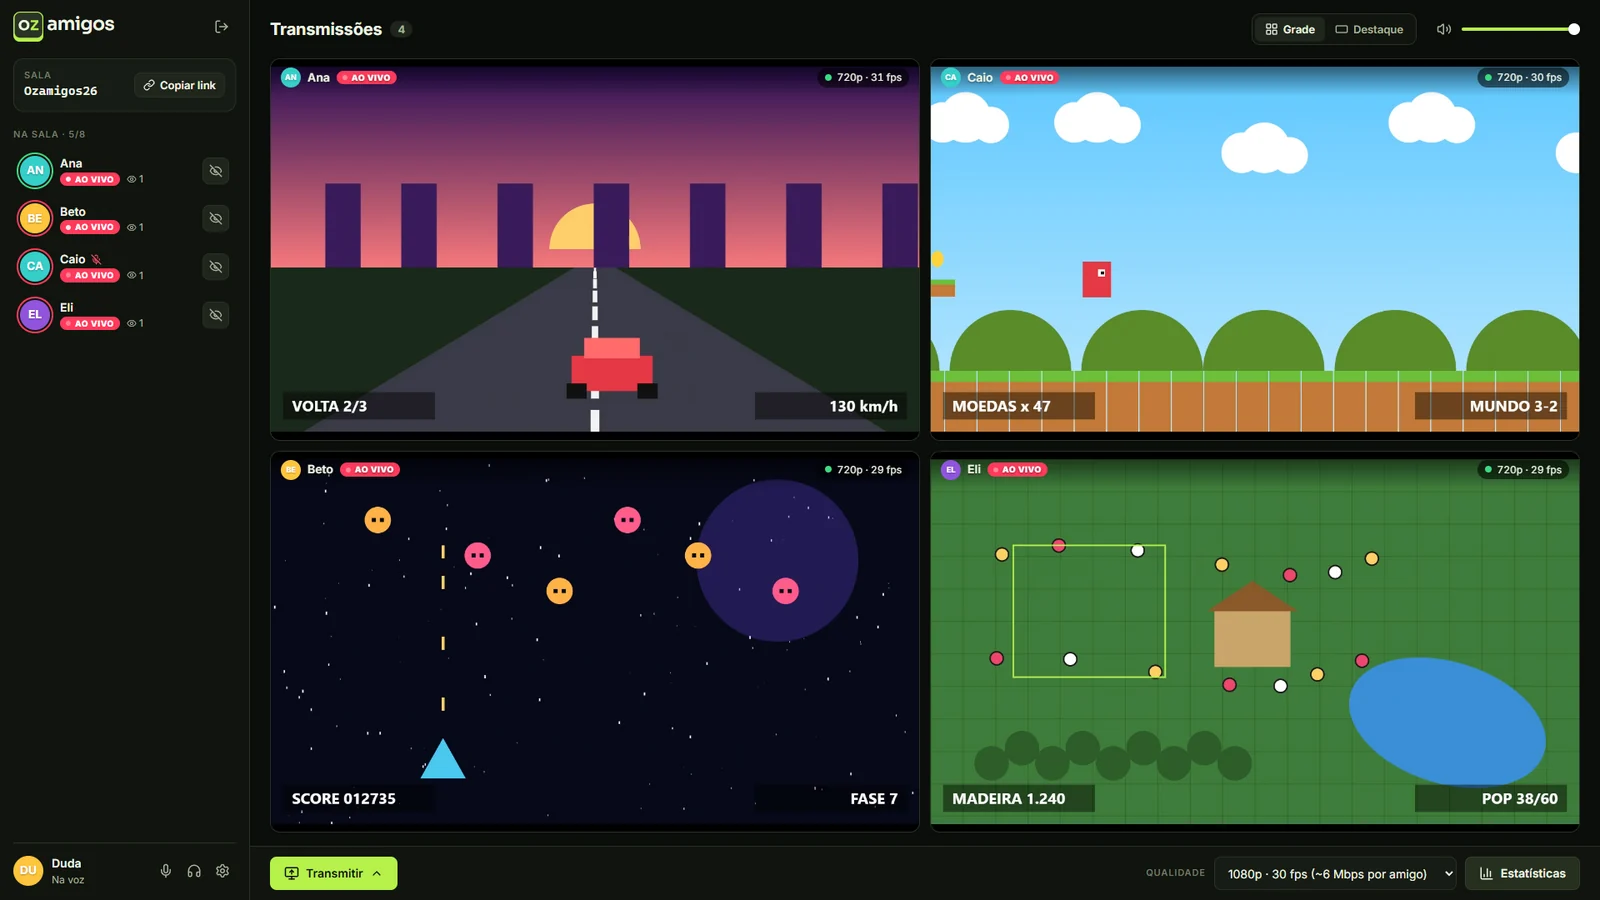
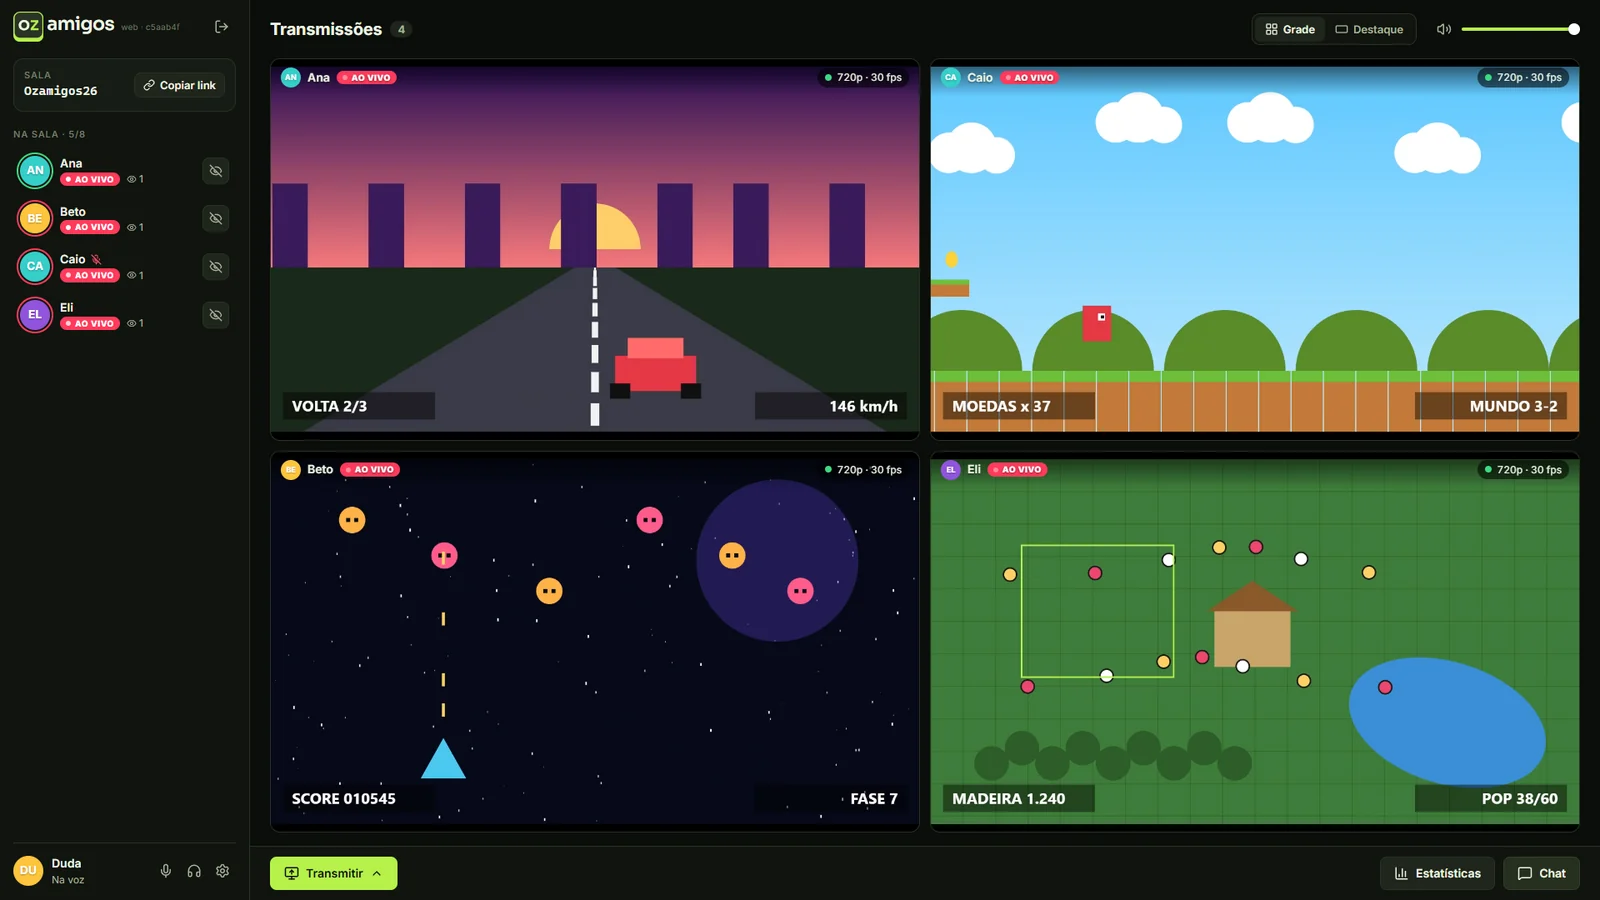
docs(site): recursos em dia nas duas línguas
- A imagem perde nitidez em vez de diminuir (720p fixo).
- Três recursos novos: chat da sala, assistir do celular e bandeja com
  avisos que não atrapalham (a grade fica 3x3).
- O FAQ diz o que dá para fazer no Mac, no Linux e no celular.
- Imagens refeitas com a interface atual.

diff --git a/site/en/index.html b/site/en/index.html
@@ -68,6 +68,9 @@
       <symbol id="i-volume-2" viewBox="0 0 24 24"><path d="M11 4.702a.705.705 0 0 0-1.203-.498L6.413 7.587A1.4 1.4 0 0 1 5.416 8H3a1 1 0 0 0-1 1v6a1 1 0 0 0 1 1h2.416a1.4 1.4 0 0 1 .997.413l3.383 3.384A.705.705 0 0 0 11 19.298z"/><path d="M16 9a5 5 0 0 1 0 6"/><path d="M19.364 18.364a9 9 0 0 0 0-12.728"/></symbol>
       <symbol id="i-picture-in-picture-2" viewBox="0 0 24 24"><path d="M21 9V6a2 2 0 0 0-2-2H4a2 2 0 0 0-2 2v10c0 1.1.9 2 2 2h4"/><rect width="10" height="7" x="12" y="13" rx="2"/></symbol>
       <symbol id="i-lock" viewBox="0 0 24 24"><rect width="18" height="11" x="3" y="11" rx="2" ry="2"/><path d="M7 11V7a5 5 0 0 1 10 0v4"/></symbol>
+      <symbol id="i-message-square" viewBox="0 0 24 24"><path d="M21 15a2 2 0 0 1-2 2H7l-4 4V5a2 2 0 0 1 2-2h14a2 2 0 0 1 2 2z"/></symbol>
+      <symbol id="i-smartphone" viewBox="0 0 24 24"><rect width="14" height="20" x="5" y="2" rx="2" ry="2"/><path d="M12 18h.01"/></symbol>
+      <symbol id="i-bell" viewBox="0 0 24 24"><path d="M10.268 21a2 2 0 0 0 3.464 0"/><path d="M3.262 15.326A1 1 0 0 0 4 17h16a1 1 0 0 0 .74-1.673C19.41 13.956 18 12.499 18 8A6 6 0 0 0 6 8c0 4.499-1.411 5.956-2.738 7.326"/></symbol>
       <symbol id="i-refresh-cw" viewBox="0 0 24 24"><path d="M3 12a9 9 0 0 1 9-9 9.75 9.75 0 0 1 6.74 2.74L21 8"/><path d="M21 3v5h-5"/><path d="M21 12a9 9 0 0 1-9 9 9.75 9.75 0 0 1-6.74-2.74L3 16"/><path d="M8 16H3v5"/></symbol>
       <symbol id="i-check" viewBox="0 0 24 24"><path d="M20 6 9 17l-5-5"/></symbol>
       <symbol id="i-monitor" viewBox="0 0 24 24"><rect width="20" height="14" x="2" y="3" rx="2"/><line x1="8" x2="16" y1="21" y2="21"/><line x1="12" x2="12" y1="17" y2="21"/></symbol>
@@ -190,7 +193,7 @@
               srcset="../imagens/voz-640.webp 640w, ../imagens/voz-800.webp 800w, ../imagens/voz-1200.webp 1200w"
               sizes="(max-width: 960px) calc(100vw - 32px), 720px"
               width="1200"
-              height="1394"
+              height="1134"
               loading="lazy"
               decoding="async"
               alt="The voice settings: microphone, audio output, volumes, sensitivity with a level meter and noise suppression"
@@ -206,7 +209,7 @@
           <li>
             <span class="recurso-icone"><svg class="icone" aria-hidden="true"><use href="#i-gauge" /></svg></span>
             <h3>Smooth, no stutter</h3>
-            <p>Low delay for viewers. If the PC or the connection can't keep up, the picture gets smaller instead of freezing.</p>
+            <p>Low delay for viewers. If the connection or the PC struggles, the picture loses a little sharpness for a few seconds, but it doesn't freeze or shrink.</p>
           </li>
           <li>
             <span class="recurso-icone"><svg class="icone" aria-hidden="true"><use href="#i-users" /></svg></span>
@@ -224,9 +227,24 @@
             <p>Pop a stream out into a small window that stays on top of your game.</p>
           </li>
           <li>
+            <span class="recurso-icone"><svg class="icone" aria-hidden="true"><use href="#i-message-square" /></svg></span>
+            <h3>Room chat</h3>
+            <p>Text messages with links, in a side panel. Nothing is stored: whoever joins later doesn't see what was said before.</p>
+          </li>
+          <li>
+            <span class="recurso-icone"><svg class="icone" aria-hidden="true"><use href="#i-smartphone" /></svg></span>
+            <h3>Watch from your phone</h3>
+            <p>In your phone's browser, you can watch the streams and join the conversation, without installing anything.</p>
+          </li>
+          <li>
             <span class="recurso-icone"><svg class="icone" aria-hidden="true"><use href="#i-lock" /></svg></span>
             <h3>Just for your group</h3>
             <p>Rooms protected by the group password. Video goes straight from one PC to the other.</p>
+          </li>
+          <li>
+            <span class="recurso-icone"><svg class="icone" aria-hidden="true"><use href="#i-bell" /></svg></span>
+            <h3>In the tray, out of the way</h3>
+            <p>Close the window and the conversation goes on, with the app by the clock. Windows notifications only show up while your game is in front, and each kind can be turned on or off.</p>
           </li>
           <li>
             <span class="recurso-icone"><svg class="icone" aria-hidden="true"><use href="#i-refresh-cw" /></svg></span>
@@ -422,7 +440,7 @@
           </details>
           <details>
             <summary>Does it work on Mac, Linux or phones?</summary>
-            <p>The app is Windows 10 and 11 only. On other systems, use it in Chrome or Edge on a computer.</p>
+            <p>The app is Windows 10 and 11 only. On Mac and Linux, use it in Chrome or Edge, with everything except game audio kept apart from voice. On phones, in the browser, you can watch and talk; streaming is computer-only.</p>
           </details>
           <details>
             <summary>Do my voice or my video go through a server?</summary>

diff --git a/site/index.html b/site/index.html
@@ -68,6 +68,9 @@
       <symbol id="i-volume-2" viewBox="0 0 24 24"><path d="M11 4.702a.705.705 0 0 0-1.203-.498L6.413 7.587A1.4 1.4 0 0 1 5.416 8H3a1 1 0 0 0-1 1v6a1 1 0 0 0 1 1h2.416a1.4 1.4 0 0 1 .997.413l3.383 3.384A.705.705 0 0 0 11 19.298z"/><path d="M16 9a5 5 0 0 1 0 6"/><path d="M19.364 18.364a9 9 0 0 0 0-12.728"/></symbol>
       <symbol id="i-picture-in-picture-2" viewBox="0 0 24 24"><path d="M21 9V6a2 2 0 0 0-2-2H4a2 2 0 0 0-2 2v10c0 1.1.9 2 2 2h4"/><rect width="10" height="7" x="12" y="13" rx="2"/></symbol>
       <symbol id="i-lock" viewBox="0 0 24 24"><rect width="18" height="11" x="3" y="11" rx="2" ry="2"/><path d="M7 11V7a5 5 0 0 1 10 0v4"/></symbol>
+      <symbol id="i-message-square" viewBox="0 0 24 24"><path d="M21 15a2 2 0 0 1-2 2H7l-4 4V5a2 2 0 0 1 2-2h14a2 2 0 0 1 2 2z"/></symbol>
+      <symbol id="i-smartphone" viewBox="0 0 24 24"><rect width="14" height="20" x="5" y="2" rx="2" ry="2"/><path d="M12 18h.01"/></symbol>
+      <symbol id="i-bell" viewBox="0 0 24 24"><path d="M10.268 21a2 2 0 0 0 3.464 0"/><path d="M3.262 15.326A1 1 0 0 0 4 17h16a1 1 0 0 0 .74-1.673C19.41 13.956 18 12.499 18 8A6 6 0 0 0 6 8c0 4.499-1.411 5.956-2.738 7.326"/></symbol>
       <symbol id="i-refresh-cw" viewBox="0 0 24 24"><path d="M3 12a9 9 0 0 1 9-9 9.75 9.75 0 0 1 6.74 2.74L21 8"/><path d="M21 3v5h-5"/><path d="M21 12a9 9 0 0 1-9 9 9.75 9.75 0 0 1-6.74-2.74L3 16"/><path d="M8 16H3v5"/></symbol>
       <symbol id="i-check" viewBox="0 0 24 24"><path d="M20 6 9 17l-5-5"/></symbol>
       <symbol id="i-monitor" viewBox="0 0 24 24"><rect width="20" height="14" x="2" y="3" rx="2"/><line x1="8" x2="16" y1="21" y2="21"/><line x1="12" x2="12" y1="17" y2="21"/></symbol>
@@ -190,7 +193,7 @@
               srcset="imagens/voz-640.webp 640w, imagens/voz-800.webp 800w, imagens/voz-1200.webp 1200w"
               sizes="(max-width: 960px) calc(100vw - 32px), 720px"
               width="1200"
-              height="1394"
+              height="1134"
               loading="lazy"
               decoding="async"
               alt="A engrenagem da voz: microfone, saída de áudio, volumes, sensibilidade com medidor e redução de ruído"
@@ -206,7 +209,7 @@
           <li>
             <span class="recurso-icone"><svg class="icone" aria-hidden="true"><use href="#i-gauge" /></svg></span>
             <h3>Liso, sem travar</h3>
-            <p>Pouco atraso para quem assiste. Se o PC ou a internet não derem conta, a imagem diminui em vez de travar.</p>
+            <p>Pouco atraso para quem assiste. Se a internet ou o PC apertarem, a imagem perde um pouco de nitidez por alguns segundos, mas não trava nem cai de tamanho.</p>
           </li>
           <li>
             <span class="recurso-icone"><svg class="icone" aria-hidden="true"><use href="#i-users" /></svg></span>
@@ -224,9 +227,24 @@
             <p>Solte uma transmissão numa janelinha que fica por cima do jogo.</p>
           </li>
           <li>
+            <span class="recurso-icone"><svg class="icone" aria-hidden="true"><use href="#i-message-square" /></svg></span>
+            <h3>Chat da sala</h3>
+            <p>Mensagens de texto com links, num painel ao lado. Nada fica guardado: quem entra depois não vê o que foi dito antes.</p>
+          </li>
+          <li>
+            <span class="recurso-icone"><svg class="icone" aria-hidden="true"><use href="#i-smartphone" /></svg></span>
+            <h3>Assista do celular</h3>
+            <p>Pelo navegador do celular, dá para assistir as transmissões e entrar na conversa, sem instalar nada.</p>
+          </li>
+          <li>
             <span class="recurso-icone"><svg class="icone" aria-hidden="true"><use href="#i-lock" /></svg></span>
             <h3>Só para o seu grupo</h3>
             <p>Salas protegidas pela senha do grupo. O vídeo vai direto de um PC para o outro.</p>
+          </li>
+          <li>
+            <span class="recurso-icone"><svg class="icone" aria-hidden="true"><use href="#i-bell" /></svg></span>
+            <h3>Na bandeja, sem atrapalhar</h3>
+            <p>Fechou a janela, a conversa continua com o app perto do relógio. Os avisos do Windows só aparecem com o jogo na frente, e cada tipo liga e desliga.</p>
           </li>
           <li>
             <span class="recurso-icone"><svg class="icone" aria-hidden="true"><use href="#i-refresh-cw" /></svg></span>
@@ -414,7 +432,7 @@
           </details>
           <details>
             <summary>Funciona no Mac, no Linux ou no celular?</summary>
-            <p>O app é só para Windows 10 e 11. Nos outros sistemas, use pelo navegador Chrome ou Edge no computador.</p>
+            <p>O app é só para Windows 10 e 11. No Mac e no Linux, use pelo navegador Chrome ou Edge, com tudo menos o som do jogo separado da voz. No celular, pelo navegador, dá para assistir e conversar; transmitir, só do computador.</p>
           </details>
           <details>
             <summary>A minha voz ou o meu vídeo passam por algum servidor?</summary>
